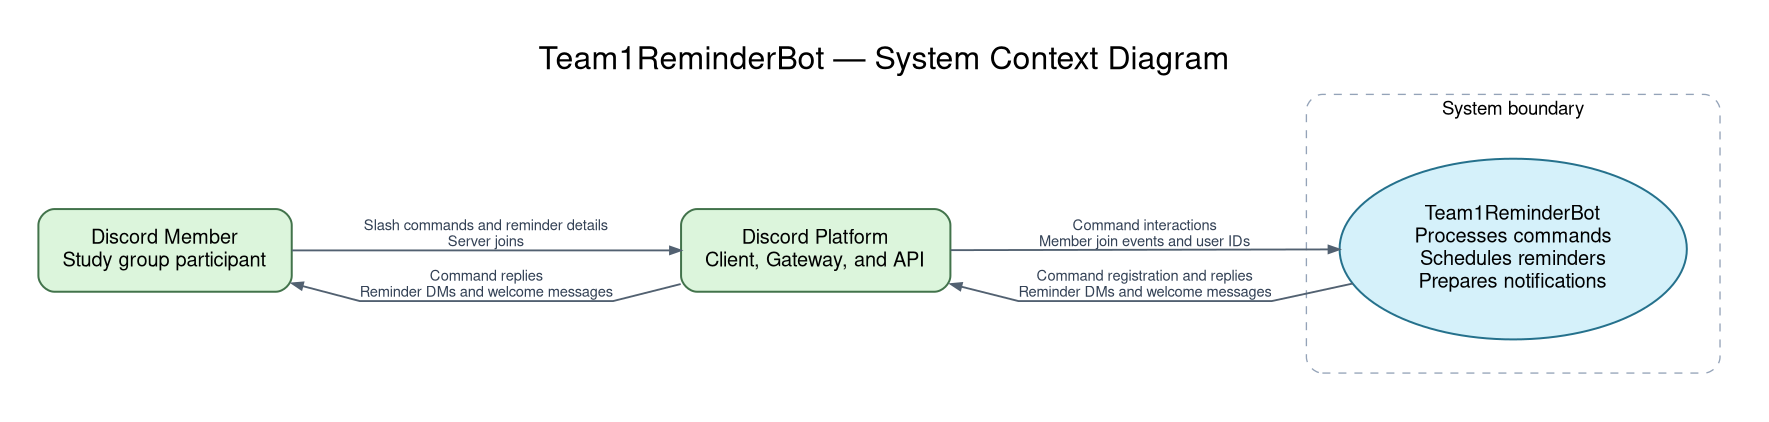
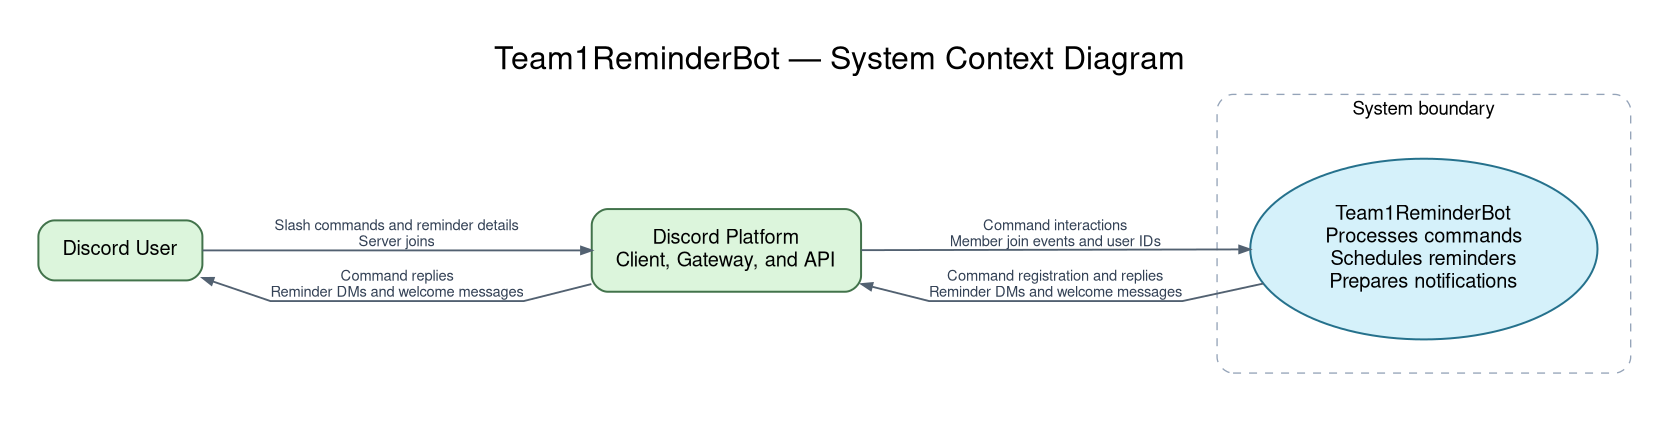
Changed my architecture and just added to existing pushed in upstream

diff --git a/ARCHITECTURE.md b/ARCHITECTURE.md
@@ -27,4 +27,12 @@ flowchart TD
 ### Explanation
 
 This control flow graph shows how our Discord bot creates reminders. First, the bot gets the amount, time unit, and message from the user. It checks if any information is missing and if the time unit and duration are valid. If everything is correct, the bot calculates when the reminder is due, saves it, and sends a confirmation message. If something goes wrong, the bot catches the error and sends an error message to the user.
-  
+
+## System Context Diagram
+
+![System Context Diagram](docs/diagrams/system-context.png)
+
+This system context diagram shows the bot operating inside the system boundary while remaining connected to both the Discord user and the Discord platform. The user initiates reminder-related actions and receives responses through Discord, while the Discord Platform acts as the gateway that handles commands, events, and message delivery. The bot sits in the middle of this exchange and is responsible for processing commands and translating user requests into reminder behavior.
+
+The architecture keeps concerns separated between the user-facing Discord experience and the bot’s internal logic. Discord handles the communication layer, including slash commands, gateway events, and DMs, while the bot interprets commands, calculates reminder timing, and prepares notifications. This arrangement makes the reminder workflow easier to understand and supports future growth, such as additional reminder features, event handling, or richer user interactions without tightly coupling the external interface to the bot’s core scheduling behavior.
+

diff --git a/architecture.md b/architecture.md
@@ -27,4 +27,12 @@ flowchart TD
 ### Explanation
 
 This control flow graph shows how our Discord bot creates reminders. First, the bot gets the amount, time unit, and message from the user. It checks if any information is missing and if the time unit and duration are valid. If everything is correct, the bot calculates when the reminder is due, saves it, and sends a confirmation message. If something goes wrong, the bot catches the error and sends an error message to the user.
-  
+
+## System Context Diagram
+
+![System Context Diagram](docs/diagrams/system-context.png)
+
+This system context diagram shows the bot operating inside the system boundary while remaining connected to both the Discord user and the Discord platform. The user initiates reminder-related actions and receives responses through Discord, while the Discord Platform acts as the gateway that handles commands, events, and message delivery. The bot sits in the middle of this exchange and is responsible for processing commands and translating user requests into reminder behavior.
+
+The architecture keeps concerns separated between the user-facing Discord experience and the bot’s internal logic. Discord handles the communication layer, including slash commands, gateway events, and DMs, while the bot interprets commands, calculates reminder timing, and prepares notifications. This arrangement makes the reminder workflow easier to understand and supports future growth, such as additional reminder features, event handling, or richer user interactions without tightly coupling the external interface to the bot’s core scheduling behavior.
+
